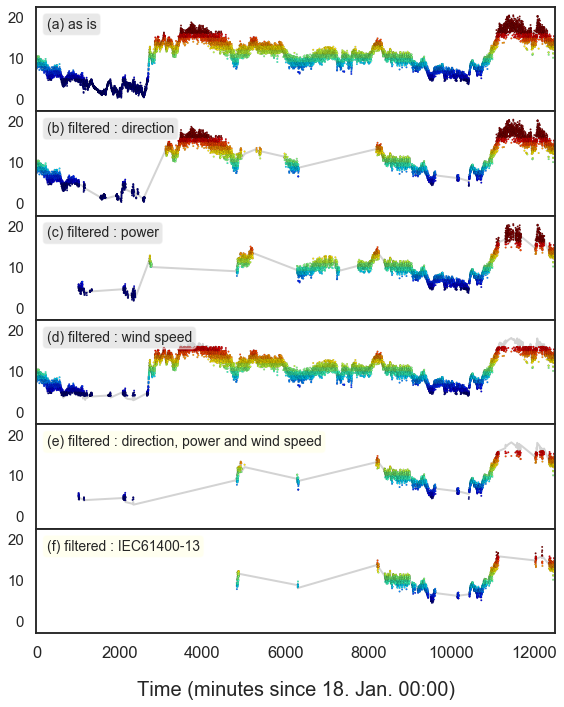
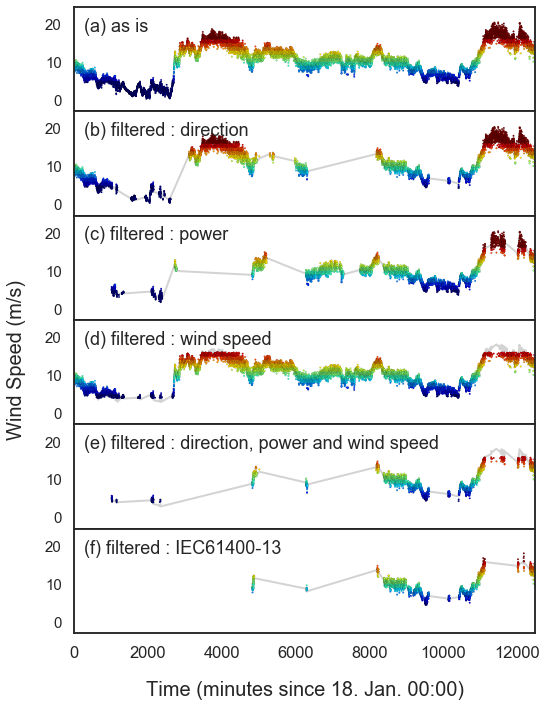
Add files via upload

diff --git a/markdown/WindAnalysis_comp_IEC61400.md b/markdown/WindAnalysis_comp_IEC61400.md
@@ -539,20 +539,22 @@ def windplot(df,    # pandas DataFrame
                          zorder=1)
         axes[ax].plot(df['indexMinutes'], df['mean10'], linewidth=2, color='lightgrey',zorder=0)
         axes[ax].set_xlim(0, 12500)
-        axes[ax].set_ylim(-3, df1['mean1'].max()*1.1)
+        axes[ax].set_ylim(-3, df1['mean1'].max()*1.2)
         axes[ax].tick_params(axis='y', labelsize=15)
         
         boxcolor = 'lightgrey' if ax < 4 else 'lightyellow'
-        boxprops = dict(boxstyle='round', facecolor=boxcolor, alpha=0.5)
-        axes[ax].text(0.02, 0.9, texts[ax], transform=axes[ax].transAxes, fontsize=14, verticalalignment='top', bbox=boxprops)
+        boxprops = dict(boxstyle='round', facecolor=boxcolor, alpha=0)
+        axes[ax].text(0.02, 0.9, texts[ax], transform=axes[ax].transAxes, fontsize=18, verticalalignment='top', bbox=boxprops)
 
 for i in range(6):
     windplot(eval('df' + str(i+1)), i)
 
-axes[4].tick_params(axis='x', labelsize=15)                                       
+axes[4].tick_params(axis='x', labelsize=15)
+
+fig.text(0.05, 0.5, 'Wind Speed (m/s)', ha='center', va='center', rotation='vertical', fontsize=20)
 plt.xlabel('Time (minutes since 18. Jan. 00:00)', labelpad = 20, fontsize=20)
 plt.tight_layout()
-plt.subplots_adjust(hspace=0, left=0.05, right=0.95, top=0.99, bottom=0.12)
+plt.subplots_adjust(hspace=0, left=0.15, right=0.95, top=0.99, bottom=0.12)
 plt.savefig('./WindAnalysis/images/winds_IEC.png', dpi=200)
 plt.show()
 ```
@@ -628,6 +630,7 @@ ax.tick_params(axis='x', labelsize=15)
 ax.tick_params(axis='y', labelsize=15)
 ax.set_ylim(0, 50000)
 ax.set_xlabel('Data Filtering', labelpad = 20, fontsize=20)
+ax.set_ylabel('Number of Wind Speed data', labelpad = 20, fontsize=20)
 
 plt.tight_layout()
 plt.savefig('./WindAnalysis/images/num_data_IEC.png', dpi=200)
